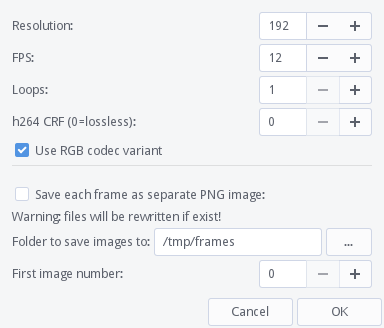
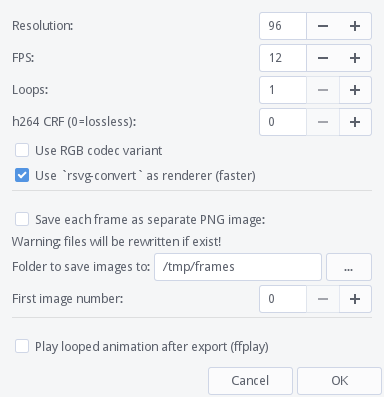
rsvg-convert + ffplay

diff --git a/layers2anim.py b/layers2anim.py
@@ -1,6 +1,6 @@
 import inkex
 from inkex.base import TempDirMixin
-from inkex.command import take_snapshot
+from inkex.command import take_snapshot as inkscape_snapshot, write_svg
 import os, subprocess as sp, shutil
 
 class AnimLayers(TempDirMixin, inkex.OutputExtension):
@@ -9,10 +9,12 @@ class AnimLayers(TempDirMixin, inkex.OutputExtension):
         pars.add_argument('--fps', type=int, default=12)
         pars.add_argument('--loops', type=int, default=1)
         pars.add_argument('--crf', type=int, default=22)
-        pars.add_argument('--rgb', type=inkex.Boolean, default=False)
+        pars.add_argument('--rgb', type=inkex.Boolean, default=True)
+        pars.add_argument('--rsvg', type=inkex.Boolean, default=True)
         pars.add_argument('--pngs', type=inkex.Boolean, default=False)
         pars.add_argument('--path', type=str, default='')
         pars.add_argument('--pngn', type=int, default=0)
+        pars.add_argument('--ffplay', type=inkex.Boolean, default=False)
 
     def save(self, stream):
         layers = self.svg.xpath("//svg:g[@inkscape:groupmode='layer']")
@@ -35,6 +37,18 @@ class AnimLayers(TempDirMixin, inkex.OutputExtension):
                     show_layer(parent, show=show)
                 else:
                     break
+                    
+        def rsvg_snapshot(document, dirname, name, dpi):
+            path = os.path.join(dirname, name)
+            width = round(self.svg.width * dpi / 96)
+            write_svg(document, path+'.svg')
+            args = f'rsvg-convert -w {width} -a -o {path}.png {path}.svg'
+            sp.run(args.split())
+
+        if self.options.rsvg:
+            snapshot = rsvg_snapshot
+        else:
+            snapshot = inkscape_snapshot
         
         # first, hide everything
         for layer in layers:
@@ -54,7 +68,7 @@ class AnimLayers(TempDirMixin, inkex.OutputExtension):
             
             show_parent_layers(layer)
             show_layer(layer)
-            filename = take_snapshot(self.document, dirname=self.tempdir, name=f'{i:04}', ext='png', dpi=self.options.resolution)
+            snapshot(self.document, dirname=self.tempdir, name=f'{i:04}', dpi=self.options.resolution)
             show_layer(layer, show=False)
             show_parent_layers(layer, show=False)
             
@@ -83,7 +97,9 @@ class AnimLayers(TempDirMixin, inkex.OutputExtension):
 
         if self.options.pngs and not self.options.path:
             inkex.errormsg("PNG frames were not saved. Please, choose a path.")
-
-
+            
+        if self.options.ffplay:
+            sp.run(f'ffplay -loglevel quiet -loop 0 {mp4}'.split())
+        
 if __name__ == '__main__':
     AnimLayers().run()
